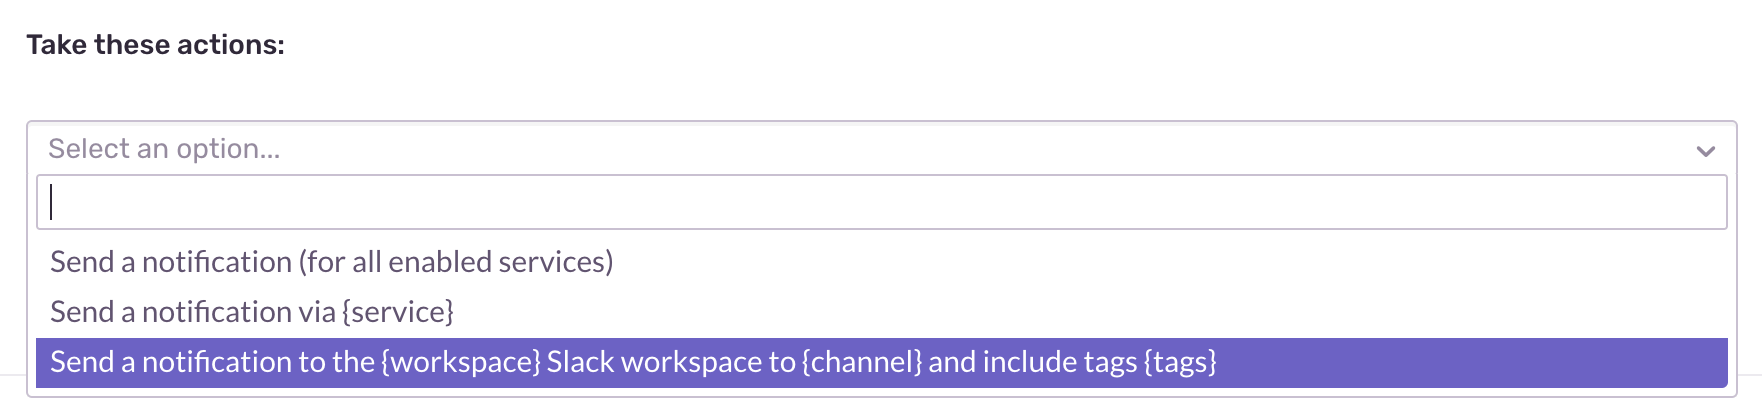
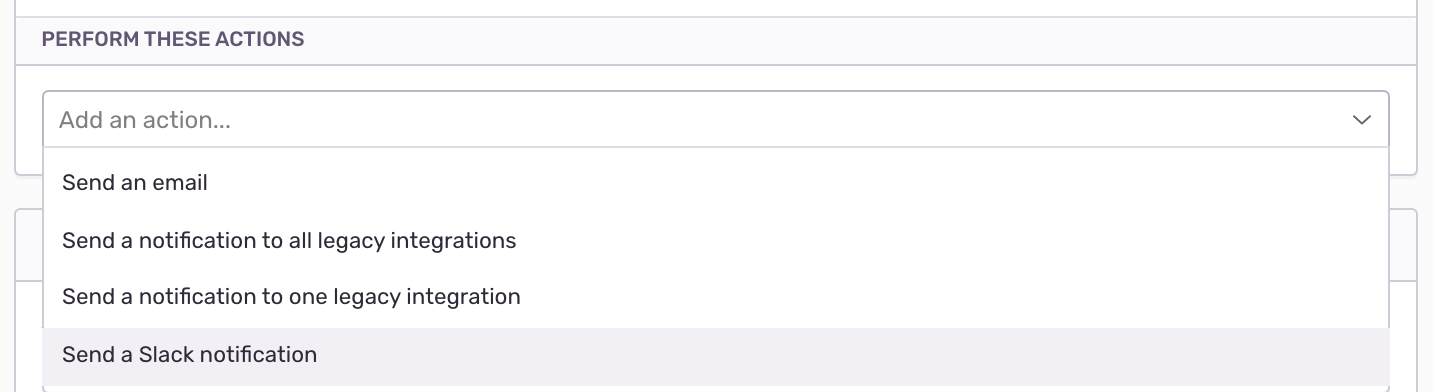
ref(slack): Update installation and alert rule steps (#1646)
* ref(slack): Update installation and alert rule steps

* update words

Changed region(s): [[0.0, 0.2755, 1.0, 0.9796], [0.0, 0.0306, 1.0, 0.1837], [0.0307, 0.2143, 0.9819, 0.2449]]

diff --git a/src/collections/_documentation/workflow/integrations/global-integrations.md b/src/collections/_documentation/workflow/integrations/global-integrations.md
@@ -899,41 +899,41 @@ Sentry owner or manager permissions are required to install this integration. Sl
 
 1. In Sentry, navigate to Organization Settings > **Integrations**.
 
-1. At the top of the page, you’ll see the available Global Integrations list, which includes Slack. Click **Install** to integrate Sentry with your Slack workspace(s).
+1. When you enter the page, the integrations list displays, which includes Slack. Use the search bar to filter quickly for the Slack integration. 
+Click **Slack** to navigate to the details page for this integration.
 
-    [{% asset slack-all-integrations-page.png %}]({% asset slack-all-integrations-page.png @path %})
+    [{% asset slack-integration-directory.png %}]({% asset slack-integration-directory.png @path %})
 
 1. Click **Add workspace**.
 
-    [{% asset slack-auth-choose-workspace.png %}]({% asset slack-auth-choose-workspace.png @path %})
+    [{% asset slack-overview-details-page.png %}]({% asset slack-overview-details-page.png @path %})
 
-    You can toggle the Slack workspace you want to connect in the dropdown menu in the upper right corner of the authentication window. To set up multiple workspaces, go through this process for each separate workspace.
 
-1. After you've connected to the correct workspace, click **Continue**.
+1. Toggle to the Slack workspace to which you want to connect using the dropdown menu in the upper right corner of the authentication window, then select **Allow**. Repeat this process if you are connecting to multiple workspaces.
 
-1. On the next page, you can choose the scope of channels you’d like Sentry to access. You can specify all public channels or choose specific channels. Then click **Install**.
+    [{% asset slack-allow-install.png %}]({% asset slack-allow-install.png @path %})
 
-    [{% asset slack-auth-channel-pref.png %}]({% asset slack-auth-channel-pref.png @path %})
+1. Your integration details page will refresh and show the Slack workspace you just added.
 
-1. Your Organization Integrations page will refresh and show the Slack workspace you just added.
+    [{% asset slack-install-success.png %}]({% asset slack-install-success.png @path %})
 
-    [{% asset slack-add-workspace-success.png %}]({% asset slack-add-workspace-success.png @path %})
+Your Slack integration is now available to all projects in your Sentry organization. To enable Slack notification for private channels, add the Slack app to the channel. One quick method: use `@sentry` to invite the Sentry bot the Slack channel.
 
-    You’ll also see the Sentry app join the Slack channels you specified right away.
-
-    [{% asset slack-sentry-integration-in-channel.png %}]({% asset slack-sentry-integration-in-channel.png @path %})
-
-Now your Slack integration is available to all projects in your Sentry organization. See the next section to configure your notification settings.
+In the next section, we'll walk you through configuring your notification settings.
 
 #### Configure Alert Rules
 
-1. Confirm your Slack workspace is configured globally for your Sentry organization by navigating to Organization Settings > **Integrations**.
+1. Confirm your Slack workspace is configured globally for your Sentry organization by navigating to Organization Settings > **Integrations**. Click on **Configuration(s)** to go to the configuration details page. 
 
-    [{% asset slack-add-workspace-success.png %}]({% asset slack-add-workspace-success.png @path %})
+    [{% asset slack-directory-installed.png %}]({% asset slack-directory-installed.png @path %})
+    
+1. Select the Slack workspace to configure from the list, then click **Configure**.
 
-1. Click **Configure** and you’ll see the available Slack workspaces for your project. From this page, you can click on **Add Alert Rule** for this project to go directly to your Alert Rule settings.
+    [{% asset slack-install-success.png %}]({% asset slack-install-success.png @path %})
 
-    [{% asset slack-global-integration-project-settings-add-alert.png %}]({% asset slack-global-integration-project-settings-add-alert.png @path %})
+1. Click **Add Alert Rule** for this project to navigate to Alert Rule settings.
+
+    [{% asset slack-project-configuration.png %}]({% asset slack-project-configuration.png @path %})
 
     You can also access **Alerts** from your **Project Settings**. From here, you can configure when notifications are sent to your Slack workspace(s).
 
@@ -943,20 +943,20 @@ Now your Slack integration is available to all projects in your Sentry organizat
 
     [{% asset slack-alert-rules.png %}]({% asset slack-alert-rules.png @path %})
 
-    For any existing Alert Rules, you can edit the rule to update the Slack channel routing. When you click **Edit Rule**, under **Take these actions** you can specify your Slack channel(s):
+    Update the Slack channel routing by for existing Alert Rules by choosing Slack as the action under **Perform these actions**:
 
     [{% asset slack-alert-rule-edit.png %}]({% asset slack-alert-rule-edit.png @path %})
 
-    After selecting **Send a notification to the {workspace} Slack workspace to {channel} and include tags {tags}**, you can specify the workspace, channel(s), and tags you’d like to include with your Alert Rule.
+    After selecting **Send a Slack notification**, specify the workspace, channel(s), and tags you’d like to include with your Alert Rule.
 
-    [{% asset slack-alert-rule-for-one-workspace.png %}]({% asset slack-alert-rule-for-one-workspace.png @path %})
+    [{% asset slack-alert-rule-edit-channels.png %}]({% asset slack-alert-rule-edit-channels.png @path %})
 
     You can add Alert Rules routing to as many Slack channels as you’d like.
 
 1. Then once you receive a Slack notification, you can use the Resolve, Ignore, or Assign buttons to update the Issue in Sentry.
 
     [{% asset slack-alert-message.png %}]({% asset slack-alert-message.png @path %})
-
+    
 #### Deleting the legacy Slack integration
 
 Once you configure the global Slack integration and Alert Rules, you can disable the old Slack integration. You’ll need to go to each project that has it enabled and disable it. We recommend disabling the legacy integration after setting up the global integration.
